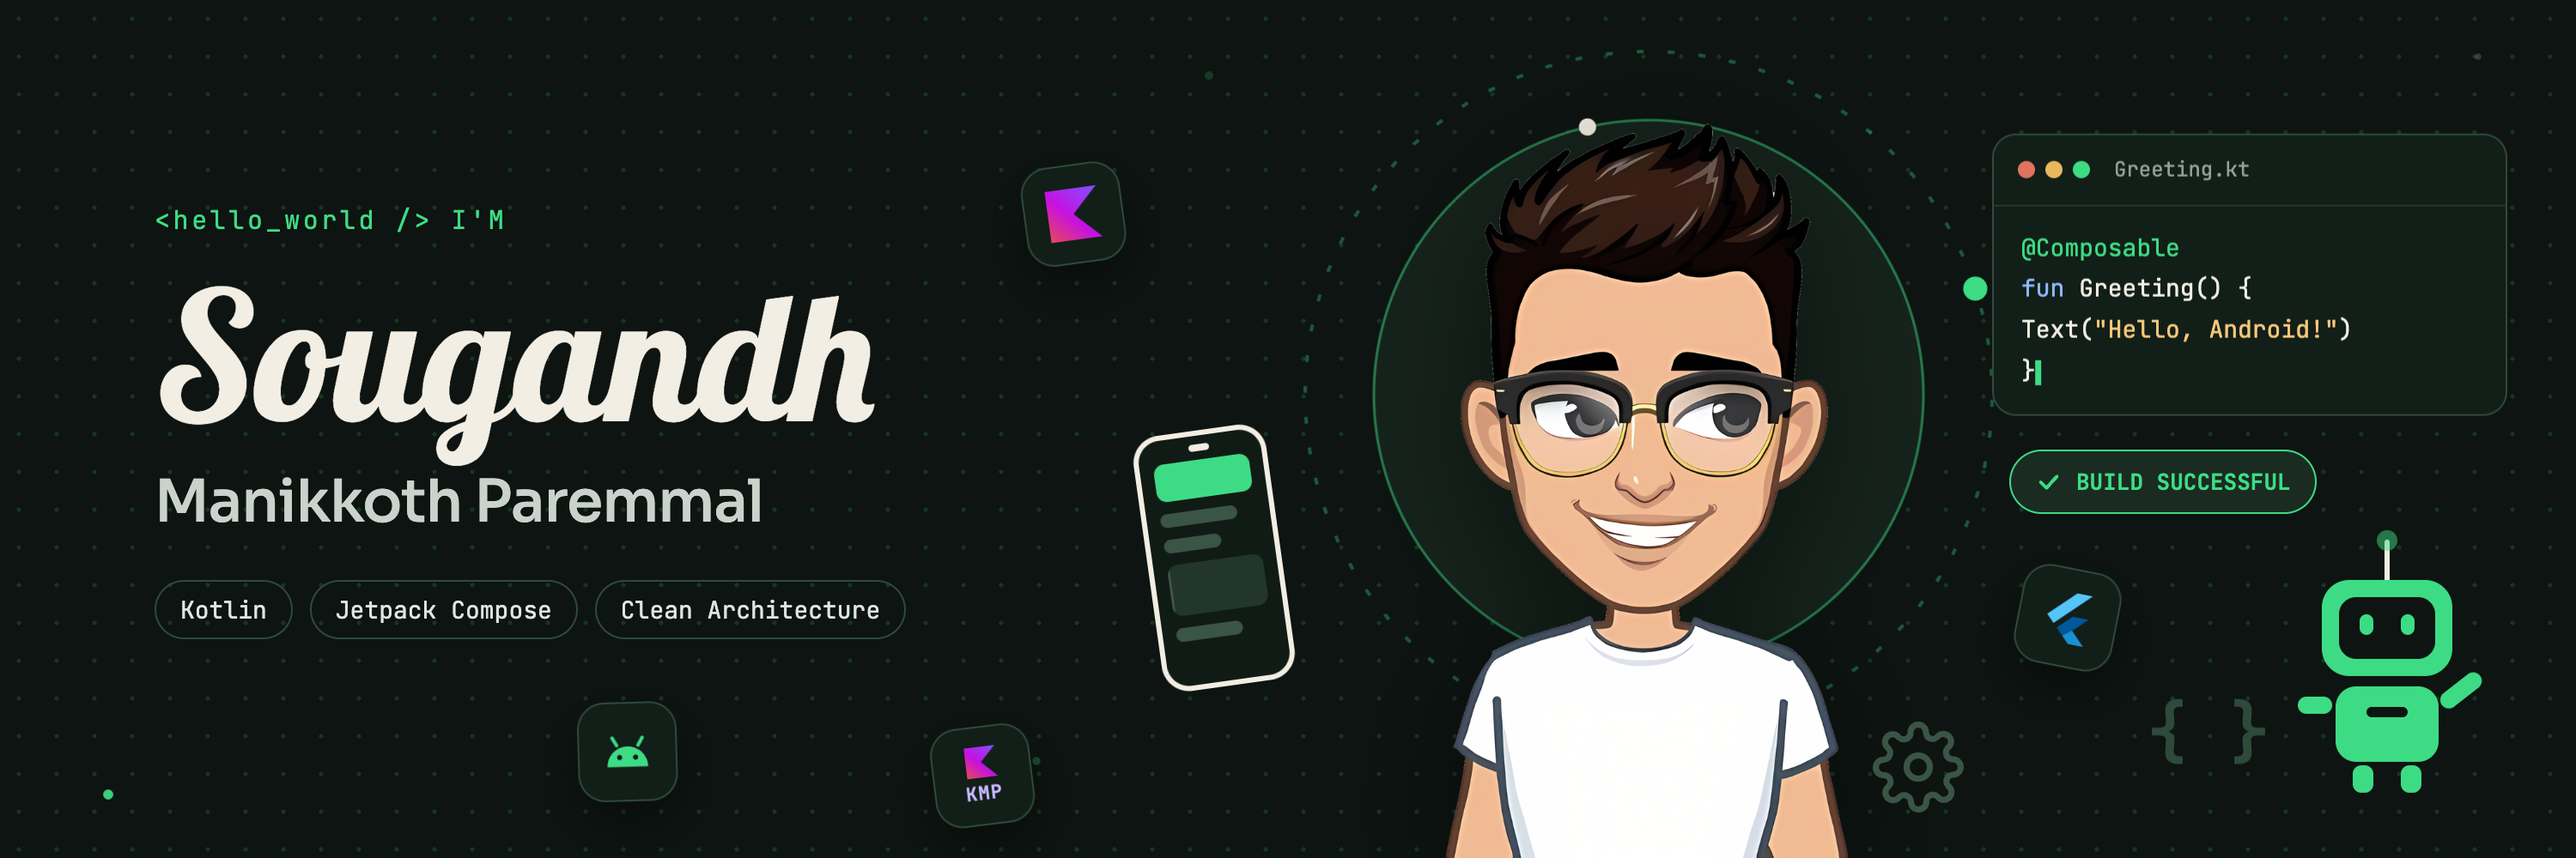
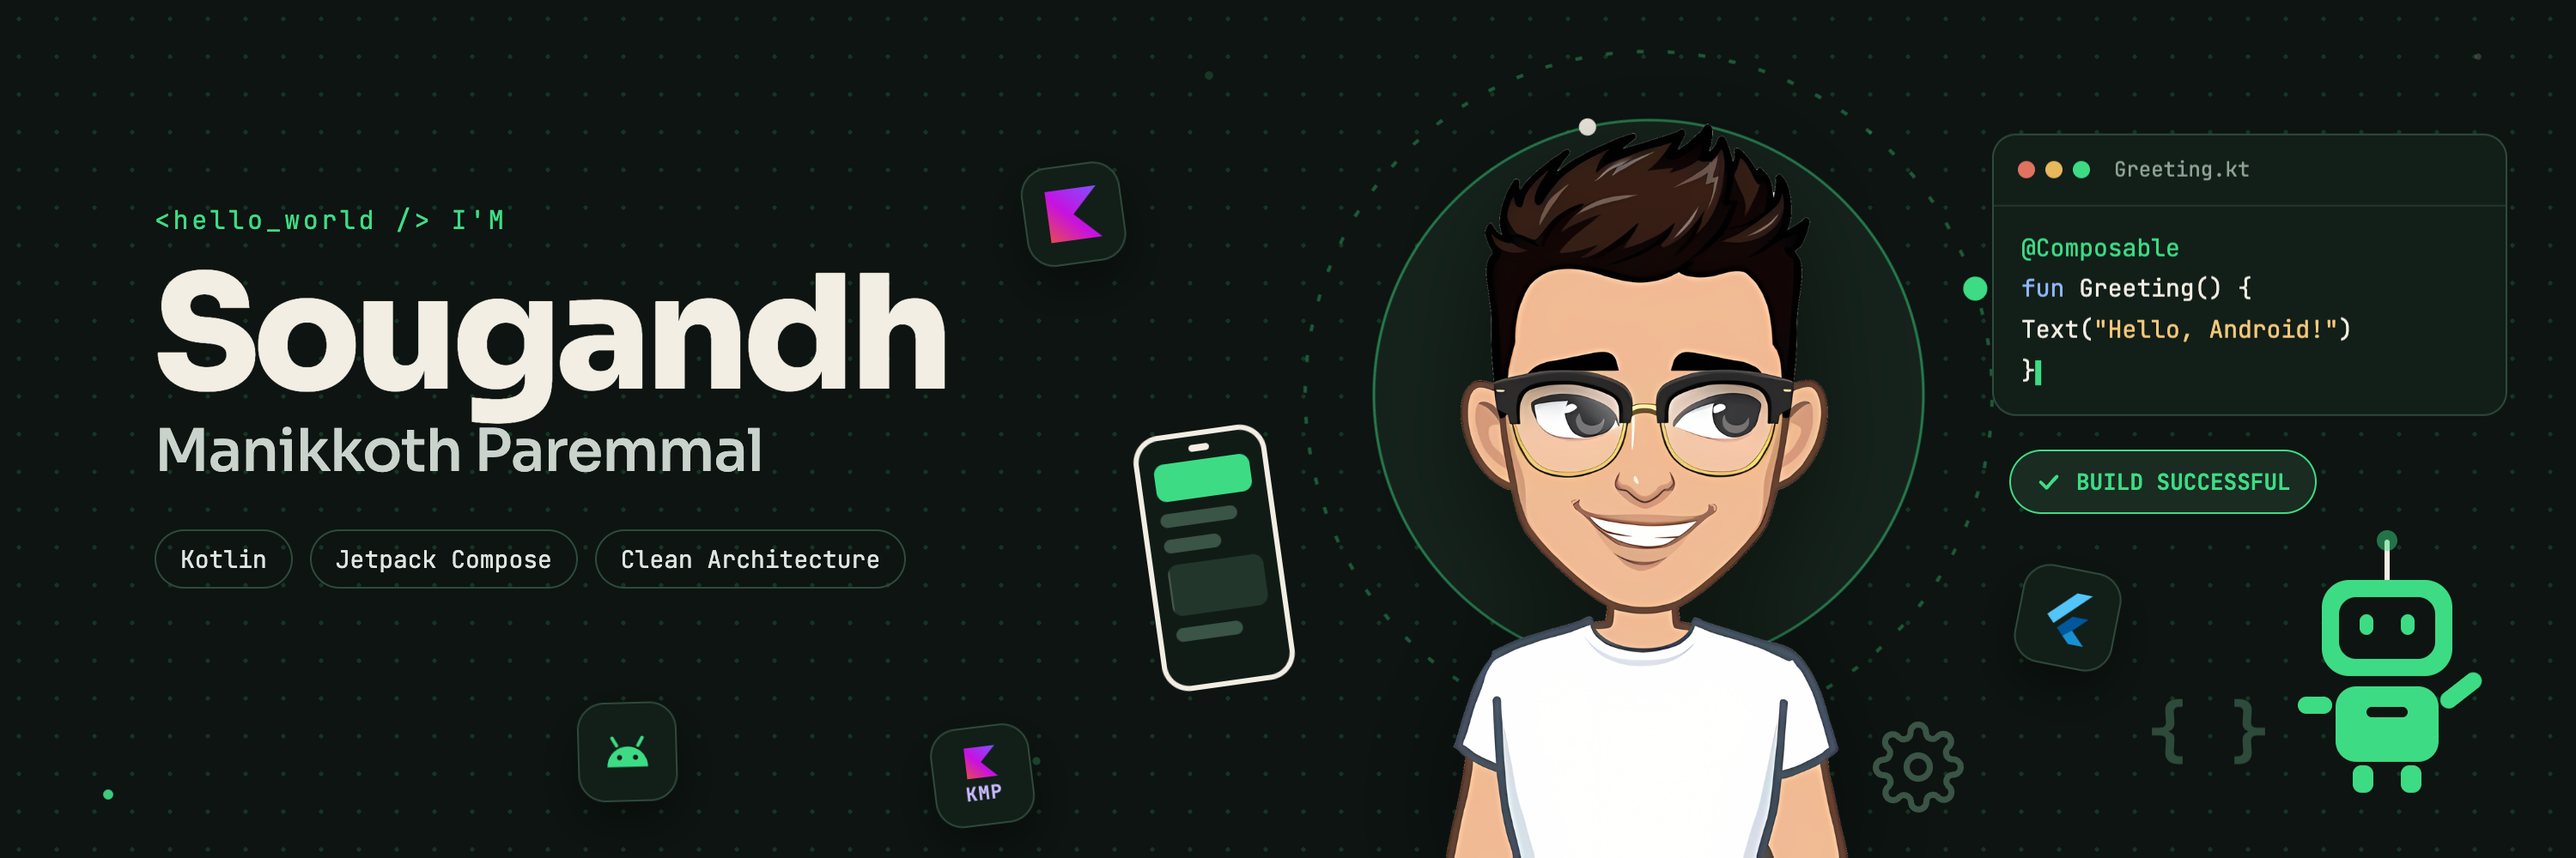
New headline and switch display text back to Sora
- Change the hero headline to "Crafting Android apps with care, since 2014."
- Set the headline and cover name in Sora; stop loading Lobster
- Keep "Android apps" together on wider screens
- Regenerate cover.png and og-image.png

Changed region(s): [[0.062, 0.31, 0.372, 0.744]]

diff --git a/index.html b/index.html
@@ -24,7 +24,7 @@
   <meta name="theme-color" content="#0d1411">
   <link rel="preconnect" href="https://fonts.googleapis.com">
   <link rel="preconnect" href="https://fonts.gstatic.com" crossorigin>
-  <link href="https://fonts.googleapis.com/css2?family=Lobster&family=Sora:wght@600;700;800&family=Instrument+Sans:wght@400;500;600;700&family=JetBrains+Mono:wght@400;600&display=swap" rel="stylesheet">
+  <link href="https://fonts.googleapis.com/css2?family=Sora:wght@600;700;800&family=Instrument+Sans:wght@400;500;600;700&family=JetBrains+Mono:wght@400;600&display=swap" rel="stylesheet">
   <style>
     :root {
       --bg: #0d1411; --fg: #f2eee3; --muted: #c9d3cc; --faint: #8fa396; --line: #2e4a3b;
@@ -67,8 +67,9 @@
     .eyebrow { display: inline-flex; color: var(--accent-strong); background: var(--accent-soft); border-radius: 999px;
       font-family: var(--mono); font-weight: 600; font-size: .8rem; border: 1px solid var(--line); padding: 5px 13px; margin: 0 0 18px; }
     h3, .stat b { font-family: var(--display); }
-    h1 { font-family: "Lobster", var(--display); font-size: clamp(2.65rem, 8vw, 4.8rem); line-height: 1.1; margin: 0 0 22px; font-weight: 400; letter-spacing: 0; max-width: 820px; }
+    h1 { font-family: var(--display); font-size: clamp(2.65rem, 8vw, 4.8rem); line-height: 1.02; margin: 0 0 22px; font-weight: 800; letter-spacing: -.03em; max-width: 960px; }
     h1 .name { color: var(--secondary); }
+    @media (min-width: 701px) { h1 .name { white-space: nowrap; } }
     .lead { font-size: 1.15rem; color: var(--muted); max-width: 670px; margin: 0; }
     .meta { color: var(--faint); font-size: .92rem; margin-top: 16px; }
     .cta { display: flex; flex-wrap: wrap; gap: 10px; margin-top: 28px; }
@@ -242,7 +243,7 @@
     <div class="cover" aria-hidden="true"><iframe src="cover.html" title="Profile cover" tabindex="-1"></iframe></div>
     <div class="hero">
     <p class="eyebrow">Senior Android Engineer &amp; Tech Lead</p>
-    <h1>I build <span class="name">Android apps</span><br>people rely on.</h1>
+    <h1>Crafting <span class="name">Android apps</span><br>with care, since 2014.</h1>
     <p class="lead">For the past 11+ years, I've been building Android apps that people use every day. That's included helping 300M+ people keep their passwords safe at MEGA, and building apps for a national postal service, a major US insurer and a global agritech leader. Banking, privacy, insurance, logistics, farming: every domain has taught me something new about what users really need.</p>
     <p class="meta">Based in Sydney, Australia · Open to Android and mobile engineering roles</p>
     <div class="cta">

diff --git a/cover.html b/cover.html
@@ -4,7 +4,7 @@
 <meta charset="utf-8">
 <title>Sougandh MP · Cover</title>
 <link rel="preconnect" href="https://fonts.googleapis.com">
-<link href="https://fonts.googleapis.com/css2?family=Lobster&amp;family=Sora:wght@500;700;800&amp;family=JetBrains+Mono:wght@400;600&amp;display=swap" rel="stylesheet">
+<link href="https://fonts.googleapis.com/css2?family=Sora:wght@500;700;800&amp;family=JetBrains+Mono:wght@400;600&amp;display=swap" rel="stylesheet">
 <style>
 body{margin:0;background:#0D1411 radial-gradient(rgba(61,220,132,.16) 1.2px,transparent 1.4px) 0 0/22px 22px;font-family:'Sora',Georgia,serif;color:#F2EEE3}
 a{color:#3DDC84}a:hover{color:#8BF0B8}
@@ -73,7 +73,7 @@ html,body{overflow:hidden}
 <div style="position: absolute; left: 90px; top: 118px; width: 600px; display: flex; flex-direction: column; gap: 14px">
 <div class="mono" style="font-size: 15px; letter-spacing: 0.12em; color: #3DDC84">&lt;hello_world /&gt; I'M</div>
 <div style="display: flex; flex-direction: column; gap: 2px">
-<h1 style="margin: 0 0 8px; font-family: 'Lobster', 'Sora', sans-serif; font-size: 104px; line-height: 1.05; font-weight: 400; letter-spacing: 0; color: #F2EEE3">Sougandh</h1>
+<h1 style="margin: 0; font-size: 92px; line-height: 0.95; font-weight: 800; letter-spacing: -0.035em; color: #F2EEE3">Sougandh</h1>
 <div style="font-size: 34px; font-weight: 500; letter-spacing: -0.015em; color: #C9D3CC">Manikkoth Paremmal</div>
 </div>
 <div class="mono" style="display: flex; gap: 10px; margin-top: 10px; font-size: 14px">
